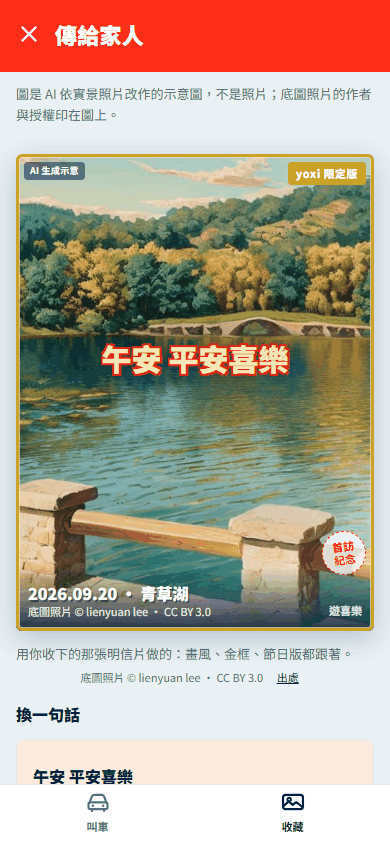
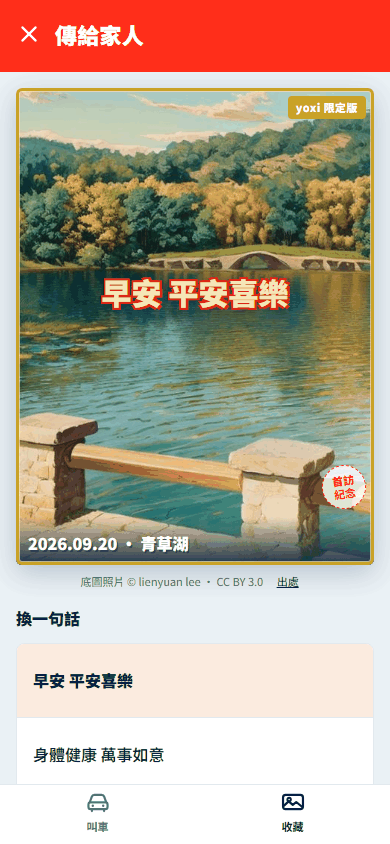
fix: 長輩圖拿掉圖上的 AI 標、遊喜樂與底圖署名，圖的上下說明小字也刪掉
使用者要求 /elder 只留圖本身：圖上的「AI 生成示意」、右下角的遊喜樂、
「底圖照片 ©…」那一行都拿掉；圖上方的 AI 說明與底下「用你收下的那張
明信片做的」也刪。底部漸層只寫日期與地點。底圖照片是 CC 授權，作者、
授權與出處連結留在圖底下那一行（photoCreditHTML），換地方時照舊跟著換。
測試改成檢查這些字不在圖上；ARCHITECTURE 註明這是「圖上要有 ai-mark」的例外。

diff --git a/app/js/views/album.js b/app/js/views/album.js
@@ -1027,27 +1027,23 @@ function elderCards(ctx) {
 
 /* 長輩圖的那一張圖＝收下的那張明信片本身（跟明信片頁同一套）：成品或照片＋那一款的濾鏡（data-card-art）、
    金框與角標、節日版會動的插畫、遠行戳（cardOrigin().marks），再壓一句大字祝福。3:4，景色整張看得到。
-   底下一條跟明信片的地名那一條一樣高（節日插畫的兔子、浪都對齊它）：日期與地點、底圖照片的署名、遊喜樂。
-   這張圖會傳出去：一定帶「AI 生成示意」與底圖的作者、授權（CC 授權要署名）。還沒收過任何一張：只有祝福的字。 */
+   底下一條深色漸層只寫日期與地點。圖上不標「AI 生成示意」、不印底圖署名與遊喜樂（2026-10-01 依使用者要求拿掉）；
+   底圖的作者、授權與出處連結留在圖底下那一行（photoCreditHTML）。還沒收過任何一張：只有祝福的字。 */
 function elderImage(p, cap) {
   const big = '<div class="alb-elder__cap"><div class="alb-elder__big" data-elder-big>' + esc(cap) + '</div></div>';
   if (!p) {
     return '<div class="alb-elder alb-elder--empty" data-elder>' + big +
-      '<div class="alb-elder__foot"><span class="alb-elder__small" data-elder-small>新竹</span><span class="alb-elder__sig">遊喜樂</span></div></div>';
+      '<div class="alb-elder__foot"><span class="alb-elder__small" data-elder-small>新竹</span></div></div>';
   }
   const o = APP.explore.cardOrigin(p.id);
-  const ph = APP.explore.cardPhoto ? APP.explore.cardPhoto(p.id) : null;
   return '<div class="alb-elder' + (o.gold ? ' is-gold' : '') + '" data-elder data-card="' + esc(p.id) + '"' + (o.gold ? ' data-gold-aura' : '') + '>' +
       '<div class="alb-elder__art" data-elder-art data-art="' + esc(p.art) + '" data-seed="' + cardIdx(p) + '" data-card-art="' + esc(p.id) + '"></div>' +
-      '<span class="ai-mark">AI 生成示意</span>' +
       (o.limited ? '<span class="postcard__ribbon" data-ribbon="limited">yoxi 限定版</span>'
         : o.gold ? '<span class="postcard__ribbon" data-ribbon="gold">yoxi 金框</span>' : '') +
       o.marks +
       big +
       '<div class="alb-elder__foot">' +
         '<span class="alb-elder__small" data-elder-small>' + esc(YEAR() + '.' + o.date + ' · ' + p.name) + '</span>' +
-        (ph ? '<span class="alb-elder__credit" data-elder-credit>底圖照片 © ' + esc(ph.author || '') + ' · ' + esc(ph.licence || '') + '</span>' : '') +
-        '<span class="alb-elder__sig">遊喜樂</span>' +
       '</div>' +
     '</div>';
 }
@@ -1073,11 +1069,10 @@ APP.view('elder', {
     const caps = [APP.fmt.greet() + ' 平安喜樂', '身體健康 萬事如意', '我今天去走走了', '有空一起來'];
     return header({ title: '傳給家人', back: '/week' }) +
       '<div class="scroll alb-scroll" style="background:var(--yoxi-mist)">' +
-        (first ? '<p class="ai-note">圖是 AI 依實景照片改作的示意圖，不是照片；底圖照片的作者與授權印在圖上。</p>' : '') +
         '<div class="alb-pad" data-elder-wrap>' +
           elderImage(first, caps[0]) +
           (first
-            ? '<p class="alb-foot">用你收下的那張明信片做的：畫風、金框、節日版都跟著。</p>' + photoCreditHTML(first.id)
+            ? photoCreditHTML(first.id)
             : '<p class="alb-foot" data-elder-empty>還沒有去過的地方可以放進圖裡，先傳一句問候。收下第一張明信片之後，這裡就能換成那個地方。</p>') +
         '</div>' +
         '<div class="alb-pad"><div class="sec"><h2 class="sec__t sec__t--sm">換一句話</h2></div>' +
@@ -1117,7 +1112,7 @@ APP.view('elder', {
       b.onclick = function () {
         const p = cardById(b.getAttribute('data-card'));
         if (!p) return;
-        /* 整張圖換成那一張（卡面、金框、節日版、署名都跟著）；出處連結也換 */
+        /* 整張圖換成那一張（卡面、金框、節日版都跟著）；圖底下的出處也換 */
         const old = wrap.querySelector('[data-elder]');
         old.insertAdjacentHTML('afterend', elderImage(p, cap));
         old.remove();

diff --git a/app/tests/specs/album.spec.js b/app/tests/specs/album.spec.js
@@ -835,7 +835,7 @@ T.spec('album', function (t) {
   });
 
   /* 8b. 長輩圖＝那張明信片（使用者：「把全部的卡片、圖片、特效同步到分享的早安圖上面」） */
-  t.test('/elder：圖就是收下的那張明信片（成品、金框、節日版插畫、底圖署名），換地方整張跟著換、選好的祝福留著', async function (app) {
+  t.test('/elder：圖就是收下的那張明信片（成品、金框、節日版插畫），圖上不標 AI、不印署名與遊喜樂，換地方整張跟著換、選好的祝福留著', async function (app) {
     await app.reset();
     const E = app.APP.explore;
     const moon = E.FESTIVALS.filter(function (f) { return f.key === 'moon'; })[0];
@@ -853,9 +853,12 @@ T.spec('album', function (t) {
     t.ok(gen && gen.getAttribute('src') === want, '成品圖：' + (gen && gen.getAttribute('src')) + '（要 ' + want + '）');
     t.ok(app.$('[data-elder] .fest[data-fest="moon"]'), '中秋版：月亮和玉兔也在長輩圖上');
     t.ok(app.$('[data-elder] .fest').classList.contains('is-live'), '打開就動一次');
-    t.ok(app.$('[data-elder] .ai-mark'), '圖上標 AI 生成示意（這張圖會傳出去）');
-    t.includes(app.text('[data-elder-credit]'), E.cardPhoto('p11').author, '圖上印底圖照片的作者');
-    t.includes(app.text('[data-elder-credit]'), E.cardPhoto('p11').licence, '與授權');
+    /* 2026-10-01 使用者：圖上的 AI 生成示意、右下角的遊喜樂、底圖照片的字都刪掉；圖上面、底下的說明小字也刪掉 */
+    t.ok(!app.$('[data-elder] .ai-mark'), '圖上不標 AI 生成示意');
+    t.ok(!/底圖照片|遊喜樂/.test(app.text('[data-elder]')), '圖上不印底圖署名、不寫遊喜樂：' + app.text('[data-elder]'));
+    t.ok(!app.$('main.view[data-view] .ai-note'), '圖上面沒有 AI 說明那一行');
+    t.ok(!/收下的那張明信片做的/.test(app.text('main.view[data-view]')), '圖底下沒有「用你收下的那張明信片做的」');
+    t.includes(app.text('[data-credit]'), E.cardPhoto('p11').author, '底圖的作者與授權留在圖底下那一行');
     t.ok(!img.classList.contains('is-gold'), '走路收的不是金框');
     t.ok(app.$('[data-act="pick-card"][data-card="p11"]') && /中秋版/.test(app.text('[data-act="pick-card"][data-card="p11"]')), '選地方的小卡寫「中秋版」');
     await app.click('[data-act="caption"][data-cap-i="1"]');
@@ -870,7 +873,6 @@ T.spec('album', function (t) {
     t.eq(app.$('[data-elder-art]').getAttribute('data-card-art'), 'p8', '卡面換成 p8 收下的那一款');
     t.eq(app.text('[data-elder-big]'), '身體健康 萬事如意', '換地方不會把選好的祝福洗掉');
     t.includes(app.text('[data-elder-small]'), '青草湖', '地點跟著換');
-    t.includes(app.text('[data-elder-credit]'), E.cardPhoto('p8').author, '圖上的署名跟著換');
     t.includes(app.text('[data-credit]'), E.cardPhoto('p8').author, '圖底下的出處連結也跟著換');
     t.eq(app.$$('[data-credit]').length, 1, '出處只有一行');
     t.noDeadButtons(app, '/elder 換地方之後');

diff --git a/app/css/views/album.css b/app/css/views/album.css
@@ -449,7 +449,7 @@ html[data-still] .alb-v2 .is-landed { animation: none; }
 
 /* ---- 長輩圖：排版語言跟 app 其它地方相反（大字、高飽和、描邊）——它要在 LINE 裡被看見 ----
    圖就是收下的那張明信片（3:4，跟明信片頁一樣，景色整張看得到）：成品＋金框＋節日版插畫都在，上面壓一句大字。
-   底下一條跟明信片的地名那一條一樣（約 62 px 高、深色漸層），節日插畫的兔子、浪才對得齊 */
+   底下一條深色漸層只寫日期與地點（不標 AI、不印署名與遊喜樂；署名在圖底下那一行） */
 .alb-elder {
   position: relative;
   aspect-ratio: 3 / 4;
@@ -499,32 +499,18 @@ html[data-still] .alb-v2 .is-landed { animation: none; }
   right: 0;
   bottom: 0;
   z-index: 3;
-  display: grid;
-  grid-template-columns: 1fr auto;
-  align-items: end;
-  column-gap: var(--sp-2);
   padding: var(--sp-4) var(--sp-3) var(--sp-3);
   background: linear-gradient(to top, color-mix(in srgb, var(--yoxi-navy) 90%, transparent), transparent);
   color: var(--yoxi-white);
 }
 .alb-elder--empty .alb-elder__foot { background: none; }
 .alb-elder__small {
-  grid-column: 1;
+  display: block;
   font-size: var(--fs-body);
   font-weight: var(--fw-heavy);
   line-height: 1.3;
   text-shadow: 1.5px 1.5px 0 color-mix(in srgb, var(--yoxi-navy) 55%, transparent);
 }
-.alb-elder__credit { grid-column: 1; font-size: var(--fs-xs); line-height: 1.4; opacity: .85; }
-.alb-elder__sig {
-  grid-column: 2;
-  grid-row: 1 / span 2;
-  align-self: end;
-  font-size: var(--fs-xs);
-  font-weight: var(--fw-bold);
-  opacity: .85;
-}
-.alb-elder > .ai-mark { z-index: 3; }
 .alb-elder > .postcard__ribbon { z-index: 5; }
 .alb-cap { width: 100%; text-align: left; }
 .alb-elder__picks { display: grid; grid-template-columns: repeat(3, 1fr); gap: var(--sp-3); }

diff --git a/app/ARCHITECTURE.md b/app/ARCHITECTURE.md
@@ -400,7 +400,7 @@ node 端：`tests/unit/helpers.mjs` 的 `loadApp({ views: ['ride', 'album', …]
 - `APP.fx`（explore-fx.js）：`engine(canvas)` 粒子（burst／converge／ring／stream／orbit；樣子 glow／soft／star／spark／shard／leaf（會翻面閃光的金箔）／orbit（繞中心轉的光軌））、`shaker(el)`、`hitstop(root, eng, ms)`、`flash(el, rgb)`、`sfx`（Web Audio 合成，`store.fxMute` 靜音；金框的燙金用 `foil(秒)`、`crown()`）、`filters()`（`#exf-watercolor／oil／woodcut／ink／gold／paper／brush`）、`color(token)`、`sfx.stopAll()`（切掉已排好的聲音；靜音與離開 /unlock 時呼叫）。顏色一律從 tokens 讀；`calm()` 就是 `APP.reduceMotion()`。`APP.explore._` 是不可列舉的內部零件，只給 explore 三支檔案用
 - 明信片的卡面（explore 提供，`explore-face.js`）：`APP.explore.cardFace(cardId, key)` → `{ gen, photo, credit }`——疊法只有這一個，`/unlock` 的卡面與收藏的卡都照它；`postcardSrc(cardId, key)` → `assets/postcards/<id>-<key>.jpg`（只有 `POSTCARD_GEN` 裡的，現在 22 張都在；其餘回空字串，卡面退回照片＋SVG 濾鏡）；`cardPhoto(cardId)` 底圖照片（明信片自己的 → 對照表的地點 → 這張卡所在地點的；出處也從它來）；`cardStyleOf(cardId)`（explore-cards.js）收下的是哪一款（`store.cardStyle` → 沒紀錄的：搭車卡金框、走路卡照收下那天的月份補季節的畫風）。別的區塊要顯示「收下的那一張」：在畫插圖的元素上加 `data-card-art="<明信片 id>"`，explore-face.js 監看整台 `.device`（`#view` 與掛在上面的浮層、懸浮小卡）自動疊上 `<img class="card-gen">`，畫面不用自己呼叫，順序跟 `/unlock` 卡面一樣：生成的成品 → 沒有成品或載不到：底圖照片＋那一款的 SVG 濾鏡（`.card-gen--photo`，先排成 220 px 寬套濾鏡再縮放到容器，容器加 `.card-photo-host` 藏起底下的插圖）→ 都沒有才留插圖（還沒收的不疊）。收藏裡顯示明信片的地方都要帶 `data-card-art`（含週回顧的卡與封面）；明信片詳情寫底圖照片的出處（`data-credit`，作者、授權、連結）
 - 節日版的插畫（explore 提供，`explore-fest.js`＋`css/views/explore-fest.css`）：`APP.explore.festHTML(key)` → 一層 `.fest[data-fest=key]`（inline SVG、`aria-hidden`、`pointer-events: none`），由 `cardOrigin().marks`／`marksHTML` 放在卡面上、`.postcard__foot` 前面（地名壓在圖上）。春節一串鞭炮由下往上炸開、端午龍舟在浪上起伏、中秋右上角月亮＋底下玉兔來回跳、賞櫻左上角櫻花樹＋落花。只放在卡片四周：主角至少五分之一卡寬、卡片正中央不擋、主角的範圍加起來不超過卡片一半（`explore.spec.js` 量）。`APP.explore.festPlay(root, { restart })` 加 `.is-live` 才動，約 5 秒停在收尾的樣子（WCAG 2.2.2）；`/unlock` 翻開時開始、明信片頁打開與翻回正面時各演一次；`APP.reduceMotion()`（含 `?still=1`）不動，直接是靜止的構圖。顏色全在 CSS（tokens），SVG 裡沒有色碼。
-- 長輩圖（album，`/elder`）：圖就是收下的那張明信片——`elderImage(p, 祝福)` 疊法跟明信片頁一樣（`data-card-art` 的成品或照片＋濾鏡、金框＋角標＋金粉、`cardOrigin().marks` 的節日插畫與遠行戳），3:4，上面壓一句大字，底下一條寫日期地點、底圖照片的作者與授權（`[data-elder-credit]`，這張圖會傳出去）與 遊喜樂。換地方時整張換、選好的祝福留著；節日插畫打開與換地方各動一次。
+- 長輩圖（album，`/elder`）：圖就是收下的那張明信片——`elderImage(p, 祝福)` 疊法跟明信片頁一樣（`data-card-art` 的成品或照片＋濾鏡、金框＋角標＋金粉、`cardOrigin().marks` 的節日插畫與遠行戳），3:4，上面壓一句大字，底下一條只寫日期地點。圖上不標「AI 生成示意」、不印底圖署名與遊喜樂，圖的上下也沒有說明小字（2026-10-01 依使用者要求拿掉；這是 §4「圖上要有 ai-mark」的例外）；底圖照片的作者、授權與出處連結留在圖底下那一行（`[data-credit]`）。換地方時整張換、選好的祝福留著；節日插畫打開與換地方各動一次。
 - 金框卡在哪裡顯示都有金框和金粉（explore 提供，`explore-gold.js`）：在「畫金框的那個元素」加 `data-gold-aura`，金粉就從它的邊緣冒出來（照元素的旋轉角度）。`[data-card-art]` 的金框卡沒人標的話，`paintCardArt` 自己補 `data-gold-aura`＋`.card-gold`（通用的框，explore.css）；框畫在外層的（明信片詳情整張卡、叫車的浮起來小卡）由畫面自己標在外層，`paintCardArt` 看到祖先標了就不再補。`/unlock` 翻開之後（`finish()`）才標，翻開前不洩底。整台手機一張 `canvas.gold-aura`（掛 `.device`、z-index 97、`pointer-events:none`、`aria-hidden`）；金粉裁在卡片的捲動範圍裡，被別的東西蓋住的邊不冒（`elementFromPoint`）；卡片移動時金粉被「跟著卡片走的空氣」帶著、有慣性（`APP.fx.gold.step` 是純函式）。樣子：細金粉、會翻會閃的金箔、細長四芒閃光、暗底的散景；相對空氣動得快的金粉拉出變淡的尾巴；每張卡每 4.8 秒有一道斜光掃過框、從亮的地方多灑一把（每張卡錯開）。`APP.reduceMotion()` 時不建 canvas（框照舊）；看不到金框卡時不跑 rAF。測試用：`APP.fx.gold.tracked()`、`particles()`
 - `APP.system.demoArrive(placeId, 'walk'|'ride')`：demo 面板的模擬抵達。走路 → `/unlock/:id`（行程進行中不行）；搭 yoxi → `APP.ride.trip.arriveAt(placeId)`（這一趟在這裡結束、取代原本的行程；距離不明的 km 是 null，跟一般叫車一樣）＋ `/unlock/:id?ride=1`
 - `APP.ui.push({when})`：推播浮層（system 提供；點推播進 `#/ride?mode=explore&area=...`（早）或 `#/lookback`（晚））

diff --git a/docs/HANDOFF.md b/docs/HANDOFF.md
@@ -321,7 +321,7 @@ python app/tests/run.py                           # web app：node 單元＋head
 
 - **龍舟**：船身分兩層（紅＋深紅的龍骨）、金邊與一排金色龍鱗；S 形脖子、張嘴的龍頭（金角、眉、牙、鬍鬚、鬃毛）；往上捲的龍尾與金鰭；燕尾旗；六個划手有臉、頭髮、紅頭帶，槳連手臂一起划；鼓手打鼓；船尾有掌舵手；船頭水花跟著划槳濺起來。前面那層浪改成海水紋（一排浪頭＋白色捲線），船抬到浪頭上，船身與龍鱗露在水面上。
 - **櫻花**：樹冠從 12 叢加到 22 叢，每叢的小圓 11 → 14 個、花 3 → 5 朵。仍然只在左上，比例測試照過。
-- **長輩圖**（`/elder`）：以前是程式畫的示意插畫，跟收下的明信片無關。現在整張就是那張明信片：成品或照片＋那一款的濾鏡、金框＋角標＋金粉、節日版會動的插畫、遠行戳，上面壓大字祝福；改成 3:4（跟明信片頁一樣，景色整張看得到）；底下一條寫日期地點、**底圖照片的作者與授權**（這張圖會傳出去，CC 授權要署名）；圖上保留「AI 生成示意」。選地方的小卡也是收下的那一款，節日版寫「中秋版」這種字。以前 §15 寫的「長輩圖刻意維持插圖」由使用者這次推翻。
+- **長輩圖**（`/elder`）：以前是程式畫的示意插畫，跟收下的明信片無關。現在整張就是那張明信片：成品或照片＋那一款的濾鏡、金框＋角標＋金粉、節日版會動的插畫、遠行戳，上面壓大字祝福；改成 3:4（跟明信片頁一樣，景色整張看得到）；底下一條寫日期地點、**底圖照片的作者與授權**（這張圖會傳出去，CC 授權要署名）；圖上保留「AI 生成示意」。選地方的小卡也是收下的那一款，節日版寫「中秋版」這種字。以前 §15 寫的「長輩圖刻意維持插圖」由使用者這次推翻。（2026-10-01 使用者再改：圖上的「AI 生成示意」、右下角的遊喜樂、底圖署名都拿掉，圖上面的 AI 說明與底下「用你收下的那張明信片做的」也刪了；CC 署名只留圖底下那一行出處。）
 - **跟另一個 session 的分工**：同一時間另一個 session（`feat/flow-progress-rewards`，從 `bfb54f8` 開）在做累計里程、框與稱號、一鍵 LINE。它把共用的 checkout 切到它的分支，所以這一段改在 worktree `.claude/worktrees/transparent-card-rules`。說好 `/elder` 的畫面歸這邊，「傳給家人」按鈕合併後改去它的 `/line`，那一行由它改。
 
 驗證：`python app/tests/run.py`（在 worktree 跑）node 80/80、瀏覽器 284/284（多一條長輩圖＝那張明信片）；Playwright 看過龍舟放大、櫻花、長輩圖（中秋版走路卡、金框限定版）。
